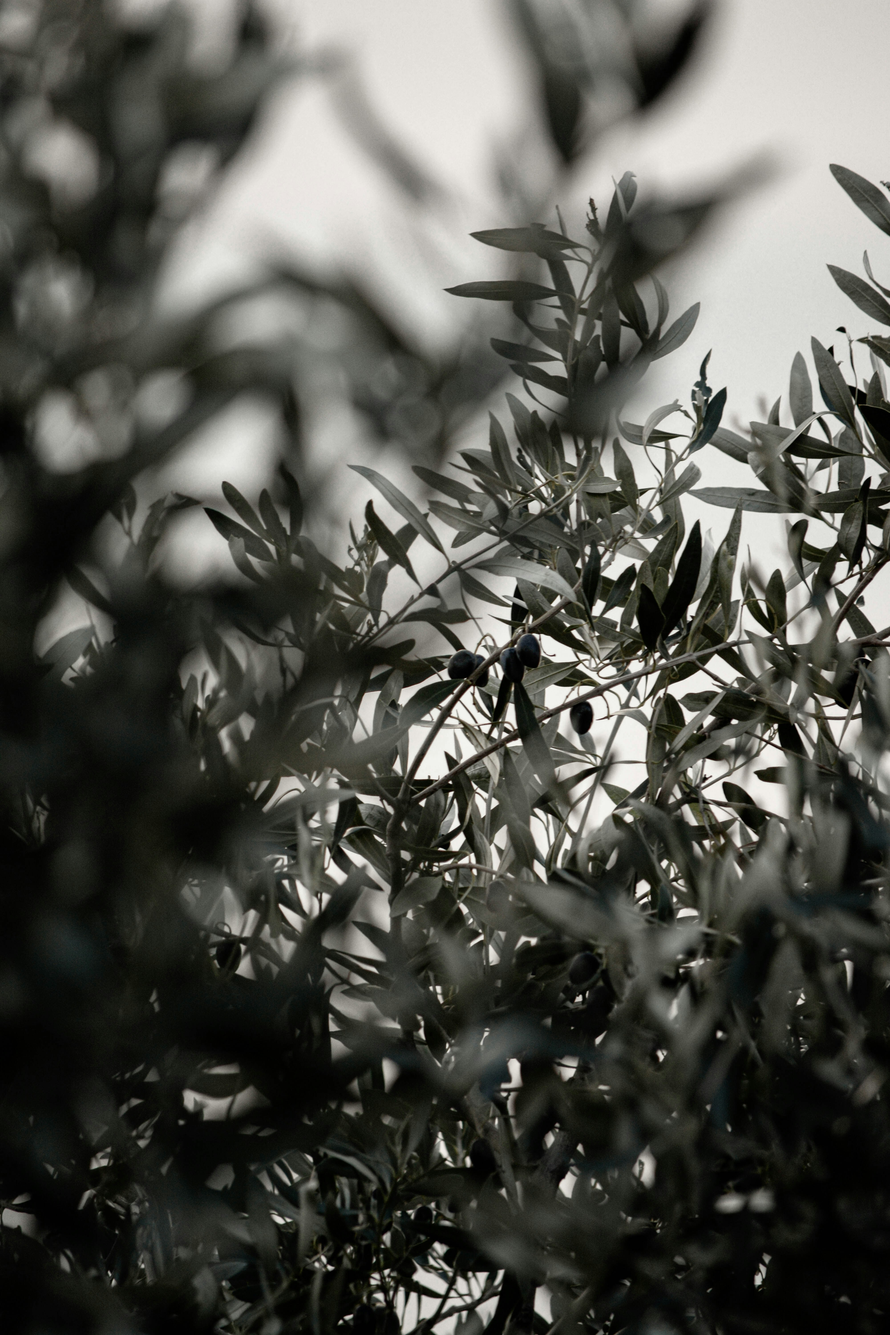
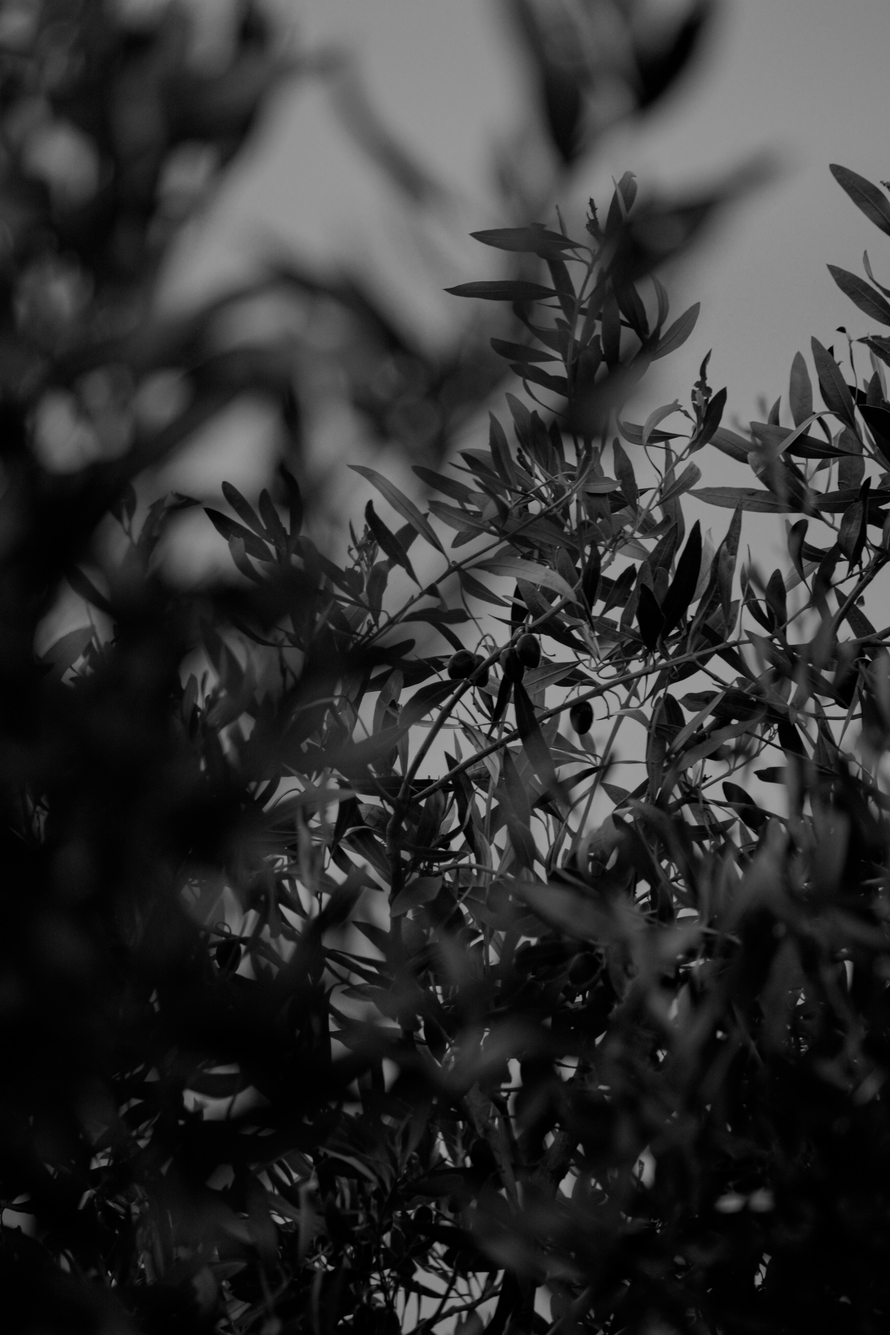
Added background to preorder page and changed the margin between cards on products website.

diff --git a/products.html b/products.html
@@ -71,7 +71,7 @@
 <div class="container">
   <div class="row">
 
-   <div class=" col-md-6 mb-6">
+   <div class=" col-md-6 mb-6 space">
     <div class="card" style="width: 18rem;">
      <img src="assets/images/product1 small.jpg" class="card-img-top" alt="Picure of a black leather backpack on the floor." >
     </div>
@@ -84,7 +84,7 @@
      </div>
    </div>
      
-   <div class="col-md-6 mb-6">
+   <div class="col-md-6 mb-6 space">
     <div class="card" style="width: 18rem;">
      <img src="assets/images/cap1unsplash.jpg" class="card-img-top" alt="Young girl wearing a white cap, pulling a fierce face." >
     </div>
@@ -93,11 +93,11 @@
        <br>
        <p>Stylish white cap, perfect for shielding the sun while adding a casual touch to any outfit. The cap features a classic design with a curved brim, offering both comfort and practicality for outdoor activities.</p>
        <p class="card-text">£9.99</p>
-       <a href="preorder.html" class="btn btn-primary">Pre-order</a>
+       <a href="preorder.html" class="btn btn-primary button-black">Pre-order</a>
      </div>
    </div>
      
-   <div class="col-md-6 mb-6">
+   <div class="col-md-6 mb-6 space">
     <div class="card" style="width: 18rem;">
      <img src="assets/images/dress-unsplash.jpg" class="card-img-top" alt="Girl wearing a black polka dot dress, balancing on one leg and standing in the middle of the street." >
     </div>
@@ -107,11 +107,11 @@
        <p>Short black dress adorned with white polka dots, combining vintage charm with modern flair. Available sizes: S/M/L.</p>
        <p class="card-text">£29.99</p>
        <br>
-       <a href="preorder.html" class="btn btn-primary">Pre-order</a>
+       <a href="preorder.html" class="btn btn-primary button-black">Pre-order</a>
      </div>
    </div>
-     
-   <div class="col-md-6 mb-6">
+    
+   <div class="col-md-6 mb-6 space">
     <div class="card" style="width: 18rem;">
      <img src="assets/images/trousers.jpg" class="card-img-top" alt="Person wearing military cargo pants, standing confidently behind a van" >
     </div>
@@ -120,11 +120,11 @@
        <br>
        <p>Classic military cargo pants designed for comfort and functionality. With multiple pockets and a relaxed fit, they provide ample storage space and a laid-back, utilitarian look suitable for active lifestyles. Available sizes: S/M/L</p>
        <p class="card-text">£49.99</p>
-       <a href=".preorder.html" class="btn btn-primary">Pre-order</a>
+       <a href=".preorder.html" class="btn btn-primary button-black">Pre-order</a>
      </div>
    </div>
      
-   <div class="col-md-6 mb-6">
+   <div class="col-md-6 mb-6 space">
     <div class="card" style="width: 18rem;">
      <img src="assets/images/t-shirt.jpg" class="card-img-top" alt="Man wearing short sleeve t-shirt next to a banister." >
     </div>
@@ -133,11 +133,11 @@
        <br>
        <p>A classic black short sleeve t-shirt, made from soft and breathable fabric. Features a simple, clean design with a comfortable fit perfect for layering or wearing on its own. Available sizes: S/M/L</p>
        <p class="card-text">£29.99</p>
-       <a href="preorder.html" class="btn btn-primary">Pre-order</a>
+       <a href="preorder.html" class="btn btn-primary button-black">Pre-order</a>
      </div>
    </div>
      
-   <div class="col-md-6 mb-6">
+   <div class="col-md-6 mb-6 space">
     <div class="card" style="width: 18rem;">
      <img src="assets/images/hoodie.jpg" class="card-img-top" alt="Man standing on the grass wearing hoodie with letters on back." >
     </div>
@@ -146,7 +146,7 @@
        <br>
     <p>Stylish and comfortable black hoodie with striking lettering on the back. Made from soft, durable fabric, it offers a relaxed fit with an adjustable hood and front pocket. Available sizes: S/M/L</p>
        <p class="card-text">£59.99</p>
-       <a href="preorder.html" class="btn btn-primary">Pre-order</a>
+       <a href="preorder.html" class="btn btn-primary button-black">Pre-order</a>
      </div>
    </div>
   </div>

diff --git a/preorder.html b/preorder.html
@@ -67,49 +67,46 @@
 
 
 
-<main>
+<main class="preorder-background">
 
 <form action="thankyou_preorder.html" method="POST">
 
-  <fieldset class="personal-details flex gap-20">
+  <fieldset class="personal-details">
     <legend>Personal Details</legend>
         <div class="flex gap-20">
-            <div>
-          <label for="name-field" class="block-label">First Name</label>
-          <input id="name-field" type="text" name="f_name" placeholder="John" required>
-        </div>
+          <div>
+           <label for="name-field" class="block-label">First Name</label>
+           <input id="name-field" type="text" name="f_name" placeholder="John" required>
+          </div>
 
-        <div>
+         <div>
           <label for="name-field" class="block-label">Second Name</label>
           <input id="name-field" type="text" name="S_name" placeholder="Lloyd" required>
-        </div>
+         </div>
 
-        <div>
+         <div>
           <label for="email-field" class="block-label">Email</label>
-          <input id="email-field" type="email" name="email" placeholder="JohnLloyd@hotmail.com" required>
+          <input id="email-field" type="email" name="email" placeholder="JLloyd@hotmail.com" required>
+         </div>
         </div>
-       
   </fieldset>
 
-  <fieldset class="personal-details flex gap-20">
+  <fieldset class="personal-details">
     <legend>Your delivery details</legend>
-    <div>
-      <label for="address-field" class="block-label">Street</label>
-      <input id="address-field" type="text" name="street" placeholder="Street" required>
-    </div>
-    <div>
-      <label for="address-field" class="block-label">City</label>
-      <input id="address-field" type="text" name="city" placeholder="City" required>
-    </div>
-    <div>
+    <div class="flex gap-20">
+      <div>
+      <label for="address-field" class="block-label">Address</label>
+      <input id="address-field" type="text" name="street" placeholder="2 Steward Street" required>
+      </div>
+      <div>
+        <label for="address-field" class="block-label">Postcode</label>
+        <input id="address-field" type="text" name="postcode" placeholder="L23 3SD" required>
+      </div>
+      <div>
       <label for="address-field" class="block-label">Country</label>
-      <input id="address-field" type="text" name="country" placeholder="Country" required>
+      <input id="address-field" type="text" name="city" placeholder="United Kingdom" required>
+      </div>
     </div>
-    <div>
-      <label for="address-field" class="block-label">Postcode</label>
-      <input id="address-field" type="text" name="postcode" placeholder="Postcode" required>
-    </div>
-
   </fieldset>
 
 
@@ -129,19 +126,15 @@
 
 
 <fieldset class="personal-details">
-  <legend>You message:</legend>
-  <label for="message" class="block-label">Please leave us a message</label>
+  <legend>Your message:</legend>
+  <label for="message" class="block-label"></label>
   <br>
-  <textarea id="fmessage" rows="4" cols="87" name="message"></textarea>
-</fieldset>
+  <textarea id="fmessage" placeholder="Please leave us a message" rows="4" cols="70" name="message"></textarea>
+</fieldset> 
 
 
-       
-    </div>
-
-<input type="submit" class="block-label" value="Send request" >
-<input type="reset" value="Reset Form">
-
+<input type="submit" class="block-label button-imput" value="Send request" >
+<input type="reset"  class="button-imput" value="Reset Form">
 </form>
 
 </main>

diff --git a/assets/css/style.css b/assets/css/style.css
@@ -178,13 +178,30 @@ footer {
     border-color: #555;
 }
 
+.space{
+     margin-top: 10px;
+     margin-right: 0px;
+     margin-bottom: 10px;
+     margin-left: 0px;
+}
+
 
 /*----- << Preorder Page Styling >>----- */
 
+.preorder-background{
+    position: relative;
+    width: 100%;
+    height: 100%; 
+    background-image: url('../images/olives.jpg');
+    background-size: cover; 
+    background-position: center; 
+}
+
 .personal-details{
-   border: 1px solid #000; 
+   border: 1px solid white; 
   padding: 20px;
   border-radius: 5px; 
+  color: white;
 }
 
 .gap-20 {
@@ -194,6 +211,10 @@ footer {
     display: flex;
 }
 
+.button-imput:hover{
+    text-decoration:none;
+    background-color: #555;
+}
 
 
 
